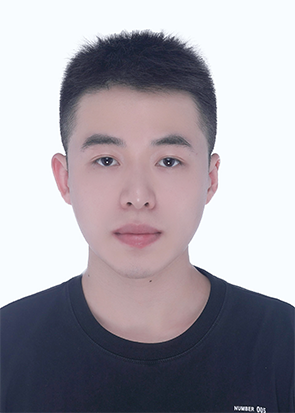
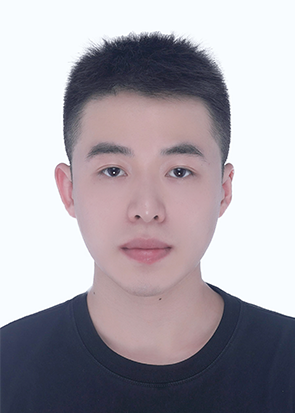
0926update
0926update

Changed region(s): [[0.0, 0.0581, 1.0, 0.9007], [0.7932, 0.9588, 0.9153, 1.0], [0.6407, 0.1743, 0.6712, 0.2034]]

diff --git a/_pages/competition.md b/_pages/competition.md
@@ -10,36 +10,38 @@ excerpt: "学生竞赛"
 
 <a href="#top" class="up-to-top">Back to Top</a>
 
-
+## 创新项目
 1. 项目编号：202010589073  基于深度学习与区块链技术的智慧校园餐饮服务系统，成员：谢鑫宇、李向辉、侯喆、韩冰、张翀 大学生创新创业项目 国家级，指导老师：胡祝华，海南大学
 2. 国家级大学生创新创业训练计划项目，国家级，成员：刘博艺等，2016，指导老师：胡祝华 海南大学。（已立项，并已结题）
 
-| **序号** | **竞赛名称**                                 | **获奖等级** | **参赛学生团队**                                               | **获奖级别** | **指导老师**   | **年份**  | **备注**                                    |
-|:------:|:----------------------------------------:|:--------:|:--------------------------------------------------------:|:--------:|:----------:|:-------:|:-----------------------------------------:|
-| 1      | 海南国际旅游岛宣传海报设计大赛                          | 二等奖      | 王润豪                                                      | 省级       | 胡祝华        | 2011    | 海南省工信厅                                    |
-| 2      | 海南省“天翼杯”首届海南省大中专学生平面大赛                   | 二等奖      | 何美璇                                                      | 省级       | 胡祝华        | 2012    | 海南省工信厅                                    |
-| 3      | 全国大学生数学建模竞赛海南赛区本科组                       | 二等奖      | 罗良耀、钟坯平、陈新、蔡春婷、蒋荣                                        | 省级       | 胡祝华        | 2011    | 教育部高等教育司                                  |
-| 4      | 全国创业创意设计大赛                               | 优胜奖      | 熊峰、季浩                                                    | 省级       | 胡祝华        | 2011    | 中国教育学会                                    |
-| 5      | 海南省“天翼杯”首届海南省大中专学生平面大赛                   | 优胜奖      | 冯清义                                                      | 省级       | 胡祝华        | 2011    | 海南省工信厅                                    |
-| 6      | 2016年“创青春”全国大学生创业大赛（南方曙光智能农业科技有限公司）      | 省特等奖     | 刘博艺等                                                     | 省级       | 胡祝华        | 2016    | 联合指导老师                                    |
-| 7      | 2016年“创青春”中航工业全国大学生创业大赛第十届“挑战杯”大学生创业计划竞赛 | 银奖       | 蔡宽麒、刘博艺、张晨、邓敏等                                           | 国家级      | 胡祝华等联合指导   | 2016.11 | 联合指导老师                                    |
-| 8      | 2016年“互联网+”竞赛（海南霹雳智能农业机器人）               | 省决赛金奖    | 郑锦江、刘博艺、张逸然                                              | 省级       | 胡祝华        | 2016    | 省教育厅、省工业和信息化厅                             |
-| 9      | 2017中美青年创客大赛海口分赛区二等奖（海洋牧场远程智能监测系统）       | 二等奖      | 张逸然、韩玉桂、余创、宋剑文、张顶坤                                       | 省市级      | 胡祝华        | 2017    | 海口市科学技术工业信息化局                             |
-| 10     | 第六届三亚微型创意企业创业大赛                          | 二等奖      | 宋剑文、张顶坤、聂长森、王菲                                           | 省市级      | 胡祝华        | 2017.9  | 三亚市                                       |
-| 11     | “华为杯”第十二届中国研究生电子设计竞赛（海洋牧场远程智能监测）         | 华南赛区三等奖  | 宋剑文、王志峰、艾上杰、王茜楠、陈益民                                      | 华南赛区     | 白勇、胡祝华     | 2017    | 教育部学位与研究生教育发展中心、全国工程专业学位研究生教育指导委员会、中国电子学会 |
-| 12     | 第三届中国“互联网+”大学生创新创业大赛                     | 金奖       | 杨景旭 时鹏超 刘博艺 蔡宽麒 黄顺伟 张家豪 杜博文 薄宇峰 胡帅 李修来——捕食者病虫害识别与环境监测机器人 | 省级       | 程杰仁、王寅、胡祝华 | 2017    | 省教育厅、省工业和信息化厅                             |
-| 13     | 2019中国高校计算机大赛-人工智能创意赛                    | 华南赛区二等奖  | 李若晴、余创、夏鑫——基于智慧养殖的远程监测预警系统                               | 华南赛区     | 胡祝华        | 2019    | 教育部、省级                                    |
-| 14     | 2019中国高校计算机大赛-人工智能创意赛                    | 二等奖      | 余创、夏鑫、李若晴——基于智慧养殖的远程监测预警系统                               | 国家级      | 胡祝华        | 2019    | 教育部                                       |
-| 15     | 2019中国高校计算机大赛-人工智能创意赛                    | 二等奖      | 樊翔、吴元庚、李若晴——基于Unity3D的AI语音识别交互型联网RPG游戏设计与实现              | 海南赛区     | 胡祝华        | 2019    | 教育部                                       |
-| 16     | 中美创客大赛                                   | 三等奖      | 李若晴、夏鑫、余创、樊翔、刘俊涛——基于智慧养殖的远程监测预警系统                        | 海南赛区     | 胡祝华        | 2019    | 海南省教育厅                                    |
-| 17     | 2020中国高校计算机大赛-人工智能创意赛                    | 二等奖      | 陈梓杰等                                                     | 海南赛区     | 胡祝华        | 2020    | 海南省教育厅                                    |
-| 18     | 2020泛珠三角大学生计算机作品赛                        | 一等奖      | 段叶川等                                                     | 海南赛区     | 胡祝华        | 2020    | 海南省教育厅                                    |
-| 19     | 2020泛珠三角大学生计算机作品赛                        | 二等奖      | 许乐薇、徐岱琪等                                                 | 海南赛区     | 胡祝华        | 2020    | 海南省教育厅                                    |
-| 20     | 中国高校计算机大赛 – 2020微信小程序应用开发赛               | 二等奖      | 王鹏、郜事成、谢鑫宇、李向辉                                           | 华南赛区     | 胡祝华        | 2020    | 全国高等学校计算机教育研究会                            |
-| 21     | 2021年中国高校计算机 – 人工智能创意赛                   | 二等奖      | 赵泽立、张雨涵、周志成                                              | 海南赛区     | 赵瑶池、胡祝华    | 2021    | 海南省教育厅                                    |
-| 22     | 2021年中国高校计算机 – 人工智能创意赛 全国复赛（区域选拔）        | 二等奖      | 许乐薇、张翀、段叶川                                               | 华南赛区     | 胡祝华        | 2021    | 全国高等学校计算机教育研究会                            |
-| 23     | 2022第八届中国国际“互联网+”大学生创新创业大赛               | 银奖       | 张翀、许乐薇、罗琼                                                | 海南赛区     | 胡祝华        | 2022    | 海南省教育厅                                    |
-| 24     | 第24届中国机器人及人工智能大赛                         | 三等奖      | 苏政玮、韩冰、郑演                                                | 海南赛区     | 胡祝华        | 2022    | 海南省教育厅                                    |
-| 25 | 第25届中国机器人及人工智能大赛 | 三等奖 | 齐浩、刘广丰、戚文璐  | 海南省 | 胡祝华 | 2023 | 海南省教育厅  |
-| 26 | 第25届中国机器人及人工智能大赛 | 三等奖 | 蔡笃鹏、李若晴、丁坤坤 | 海南省 | 胡祝华 | 2023 | 海南省教育厅  |
-| 27 | 第25届中国机器人及人工智能大赛 | 三等奖 | 范习禹、陈俊霏、许乐薇 | 海南省 | 胡祝华 | 2023 | 海南省教育厅  |
+## 学科竞赛
+
+| **序号** | **竞赛名称**                     | **获奖等级** | **参赛学生团队**             | **获奖级别** | **指导老师**   | **年份**  | **主办单位**            |
+|:------:|:----------------------------------:|:--------:|:---------------------------------:|:--------:|:----------:|:-------:|:-------------------------------:|
+| 1  | 第25届中国机器人及人工智能大赛                | 三等奖     | 齐浩、刘广丰、戚文璐                             | 海南省  | 胡祝华        | 2023   | 海南省教育厅                  |
+| 2  | 第25届中国机器人及人工智能大赛                | 三等奖     | 蔡笃鹏、李若晴、丁坤坤                            | 海南省  | 胡祝华        | 2023   | 海南省教育厅                  |
+| 3  | 第25届中国机器人及人工智能大赛                | 三等奖     | 范习禹、陈俊霏、许乐薇                            | 海南省  | 胡祝华        | 2023   | 海南省教育厅                  |
+| 4  | 2022第八届中国国际“互联网+”大学生创新创业大赛  | 银奖      | 张翀、许乐薇、罗琼                              | 海南赛区 | 胡祝华        | 2022   | 海南省教育厅                  |
+| 5  | 第24届中国机器人及人工智能大赛                | 三等奖     | 苏政玮、韩冰、郑演                              | 海南赛区 | 胡祝华        | 2022   | 海南省教育厅                  |
+| 6  | 2021年中国高校计算机 – 人工智能创意赛         | 二等奖     | 赵泽立、张雨涵、周志成                            | 海南赛区 | 赵瑶池、胡祝华    | 2021   | 海南省教育厅                  |
+| 7  | 2021年中国高校计算机 – 人工智能创意赛 全国复赛（区域选拔）  | 二等奖     | 许乐薇、张翀、段叶川           | 华南赛区 | 胡祝华        | 2021   | 全国高等学校计算机教育研究会          |
+| 8  | 2020中国高校计算机大赛-人工智能创意赛         | 二等奖     | 陈梓杰等                                   | 海南赛区 | 胡祝华        | 2020   | 海南省教育厅                  |
+| 9  | 2020泛珠三角大学生计算机作品赛                | 一等奖     | 段叶川等                                   | 海南赛区 | 胡祝华        | 2020   | 海南省教育厅                  |
+| 10 | 2020泛珠三角大学生计算机作品赛                | 二等奖     | 许乐薇、徐岱琪等                               | 海南赛区 | 胡祝华        | 2020   | 海南省教育厅                  |
+| 11 | 中国高校计算机大赛 – 2020微信小程序应用开发赛  | 二等奖     | 王鹏、郜事成、谢鑫宇、李向辉               | 华南赛区 | 胡祝华        | 2020   | 全国高等学校计算机教育研究会          |
+| 12 | 2019中国高校计算机大赛-人工智能创意赛         | 二等奖 | 李若晴、余创、夏鑫                          | 华南赛区 | 胡祝华        | 2019   | 教育部、省级                  |
+| 13 | 2019中国高校计算机大赛-人工智能创意赛         | 二等奖     | 余创、夏鑫、李若晴                              | 国家级  | 胡祝华        | 2019   | 教育部                     |
+| 14 | 2019中国高校计算机大赛-人工智能创意赛         | 二等奖     | 樊翔、吴元庚、李若晴                             | 海南赛区 | 胡祝华        | 2019   | 教育部                     |
+| 15 | 中美创客大赛                                | 三等奖     | 李若晴、夏鑫、余创、樊翔、刘俊涛               | 海南赛区 | 胡祝华        | 2019   | 海南省教育厅                  |
+| 16 | 第六届三亚微型创意企业创业大赛                 | 二等奖     | 宋剑文、张顶坤、聂长森、王菲                         | 省市级  | 胡祝华        | 2017.9 | 三亚市                     |
+| 17 | 2017中美青年创客大赛海口分赛区二等奖（海洋牧场远程智能监测系统） | 二等奖   | 张逸然、韩玉桂、余创、宋剑文、张顶坤    | 省市级  | 胡祝华  | 2017   | 海口市科学技术工业信息化局      |
+| 18 | “华为杯”第十二届中国研究生电子设计竞赛（海洋牧场远程智能监测）| 三等奖 | 宋剑文、王志峰、艾上杰、王茜楠、陈益民 | 华南赛区 | 白勇、胡祝华 | 2017 | 教育部学位与研究生教育发展中心、中国电子学会  |
+| 19 | 第三届中国“互联网+”大学生创新创业大赛 | 金奖 | 杨景旭 时鹏超 刘博艺 蔡宽麒 黄顺伟 张家豪 杜博文 薄宇峰 胡帅 李修来 | 省级 | 程杰仁、王寅、胡祝华 | 2017 | 省教育厅、省工业和信息化厅 |
+| 20 | 2016年“创青春”中航工业全国大学生创业大赛第十届“挑战杯”大学生创业计划竞赛 | 银奖 | 蔡宽麒、刘博艺、张晨、邓敏等 | 国家级 | 胡祝华等联合指导 | 2016.11 | 共青团中央、教育部、中国科协 |
+| 21 | 2016年“创青春”全国大学生创业大赛（南方曙光智能农业科技有限公司）      | 省特等奖  | 刘博艺等              | 省级  | 胡祝华      | 2016    | 省教育厅、省工业和信息化厅        |
+| 22 | 2016年“互联网+”竞赛（海南霹雳智能农业机器人）               | 省决赛金奖 | 郑锦江、刘博艺、张逸然       | 省级  | 胡祝华      | 2016    | 省教育厅、省工业和信息化厅        |
+| 23 | 海南省“天翼杯”首届海南省大中专学生平面大赛                   | 二等奖   | 何美璇               | 省级  | 胡祝华      | 2012    | 海南省工信厅               |
+| 24 | 海南国际旅游岛宣传海报设计大赛                          | 二等奖   | 王润豪               | 省级  | 胡祝华      | 2011    | 海南省工信厅               |
+| 25 | 全国大学生数学建模竞赛海南赛区本科组                       | 二等奖   | 罗良耀、钟坯平、陈新、蔡春婷、蒋荣 | 省级  | 胡祝华      | 2011    | 教育部高等教育司             |
+| 26 | 全国创业创意设计大赛                               | 优胜奖   | 熊峰、季浩             | 省级  | 胡祝华      | 2011    | 中国教育学会               |
+| 27 | 海南省“天翼杯”首届海南省大中专学生平面大赛                   | 优胜奖   | 冯清义               | 省级  | 胡祝华      | 2011    | 海南省工信厅               |

diff --git a/_pages/news.md b/_pages/news.md
@@ -22,6 +22,12 @@ type: posts
 <!--
 <p style="margin-top: 6px;"><li>[<font color="red">July 5, 2022</font>] "<b>E3Outlier: A Self-supervised Framework for Unsupervised Deep Outlier Detection</b>" has been accepted by <font color="green">IEEE Transactions on Pattern Analysis and Machine Intelligence (IEEE TPAMI)</font>.</li></p>
 -->  
+
+<p style="margin-top: 6px;"><li>[<font color="red">June, 2023</font>] "<b> A YOLOv7 incorporating the Adan optimizer based corn pests identification method</b>" has been submitted to <font color="green">Frontiers in Plant Science</font> <font color="blue">(Status: Accepted)</font>.</li></p>
+
+<p style="margin-top: 6px;"><li>[<font color="red">May, 2023</font>] "<b> TFF_aDCNN: A Pre-trained Base Model for Intelligent Wideband Spectrum Sensing</b>" has been submitted to <font color="green">IEEE Transactions on Vehicular Technology</font> <font color="blue">(Status: Accepted)</font>.</li></p>
+
+<p style="margin-top: 6px;"><li>[<font color="red">January, 2023</font>] "<b>An Intelligent Measurement Scheme for Basic Characters of Fish in Smart Aquaculture</b>" has been submitted to <font color="green">Computers and Electronics in Agriculture</font> <font color="blue">(Status: Accepted)</font>.</li></p>
   
 <p style="margin-top: 6px;"><li>[<font color="red">October, 2022</font>] "<b>DualA_SL: Salient Object Detection Driven by Dual Attention and Structured Loss</b>" has been submitted to <font color="green">Image and Vision Computing (IMAVIS)</font> <font color="blue">(Status: Under Review)</font>.</li></p>
   
@@ -32,7 +38,6 @@ type: posts
 </ul>
 <!-- 
   [October, 2022] "<b>DualA_SL: Salient Object Detection Driven by Dual Attention and Structured Loss</b>" has been submitted to Image and Vision Computing (IMAVIS)<font color="blue">(Status: Under Review)</font>.
-
 <br>
   [September, 2022]"<b>KPCRN: Key-Point-Coordinate Regression Network for Fish Characteristics Measurement</b>" has been submitted to IEEE Transactions on Instrumnetation & Measurement (TIM) <font color="blue">(Status: Under Review)</font>.
 <br>

diff --git a/_pages/groupmembers.md b/_pages/groupmembers.md
@@ -198,7 +198,7 @@ type: posts
       </td>
       <td width="16.66%" style="padding-right:30px">
         <div>
-          <img width="130" height="185" src="/images/groupmember/profile.png">
+          <img width="130" height="185" src="/images/groupmember/caidupeng.png">
         </div>
         <div>
           蔡笃鹏
